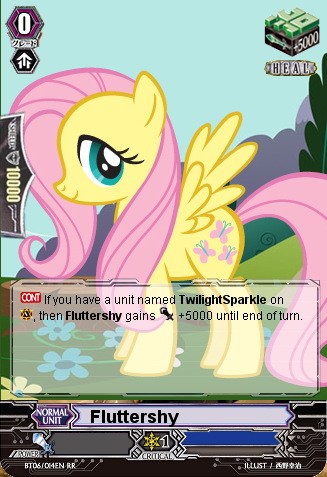
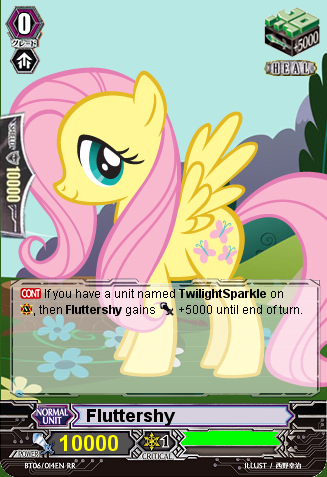
Fixed text fit issues

diff --git a/src/com/tcg/generator/cards/GenericCard.java b/src/com/tcg/generator/cards/GenericCard.java
@@ -7,6 +7,7 @@ package com.tcg.generator.cards;
 import com.tcg.generator.cards.reflect.Card;
 import com.fasterxml.jackson.databind.DeserializationFeature;
 import com.fasterxml.jackson.databind.ObjectMapper;
+import com.tcg.generator.config.ConfigHolder;
 import com.tcg.generator.layouts.CardFont;
 import com.tcg.generator.layouts.CardLayout;
 import com.tcg.generator.layouts.ElementLayout;
@@ -19,6 +20,7 @@ import com.text.formatted.elements.MarkupElement;
 import com.text.formatted.elements.MixedMediaText;
 import com.text.formatted.elements.TextInsert;
 import java.awt.AlphaComposite;
+import java.awt.Color;
 import java.awt.Composite;
 import java.awt.Font;
 import java.awt.FontMetrics;
@@ -99,9 +101,9 @@ public class GenericCard {
     public final GenericCard setArtwork(File artworkFile) {
         try {
             this.artwork = ImageIO.read(artworkFile);
-           System.out.println("Successfully opened: " + artworkFile);
+           System.out.println("Successfully opened: " + artworkFile.getAbsolutePath());
         } catch (IOException ex) {
-            System.out.println("Failed to open:      " + artworkFile);
+            System.out.println("Failed to open:      " + artworkFile.getAbsolutePath());
         }
         return this;
     }
@@ -130,7 +132,6 @@ public class GenericCard {
             draw(new FileOutputStream(outputFile));
         } catch (FileNotFoundException ex) {
             System.out.println("Unable to find file!");
-            return;
         }
     }
     
@@ -218,8 +219,12 @@ public class GenericCard {
                 
                 switch(element.getType()) {
                     case "text-box":
-                        mmtl = splitAndFitMixedText(bi, lines, element);
-                        drawMixedMediaText(bi, mmtl, element);
+                        if (element.hasWordWrap()) {
+                            mmtl = splitAndFitMixedText(bi, lines, element);
+                            drawMixedMediaText(bi, mmtl, element);
+                        } else {
+                            drawText(bi, lines, element);
+                        }
                         break;
                     case "table":
                         drawTableCols(bi, lines, 2, element);
@@ -278,7 +283,7 @@ public class GenericCard {
             
             int width = fm.getStringBounds(line, g).getBounds().width;
             
-            if (width > elementLayout.getWidth() - elementLayout.getMargin() * 2) {
+            if (width > elementLayout.getWidth() - elementLayout.getMarginX() * 2) {
                 lines.add(lastLine);
                 line = lastWord;
             }
@@ -320,7 +325,7 @@ public class GenericCard {
         ArrayList<MixedMediaText> lines = new ArrayList<>();
         
         MarkupElement element;
-        int maxWidth = (elementLayout.getWidth() - elementLayout.getMargin() * 2);
+        int maxWidth = (elementLayout.getWidth() - elementLayout.getMarginX() * 2);
         
         while((element = text.next()) != null) {
             if (element instanceof ImageInsert) {
@@ -339,14 +344,6 @@ public class GenericCard {
             int width = textWidth + iconWidth + formattedTextWidth;
             
             if (width >= maxWidth) {
-                System.out.println("TEXT WIDTH:     " + textWidth);
-                System.out.println("FTEXT WIDTH:    " + formattedTextWidth);
-                System.out.println("ICONS WIDTH:    " + iconWidth);
-                System.out.println("TOTAL WIDTH:    " + width);
-                System.out.println("MAX WIDTH:      " + maxWidth);
-                System.out.println("ELEMENT WIDTH:  " + elementLayout.getWidth());
-                System.out.println("ELEMENT MARGIN: " + elementLayout.getMargin());
-                
                 lastElement = line.popElement();
                 
                 if (line.peekElement() instanceof ImageInsert) {
@@ -403,8 +400,6 @@ public class GenericCard {
         Composite comp = AlphaComposite.getInstance(rule, alpha);
         g.setComposite(comp);
         
-        //g.drawImage(elementLayout.getLayer(), null, 0, 0);
-        
         // Use this when we change the way we store card layers.
         g.drawImage(elementLayout.getLayer(), null, elementLayout.getX(), elementLayout.getY());
     }
@@ -433,10 +428,10 @@ public class GenericCard {
         
         FontMetrics fm = g.getFontMetrics();
         
-        int lineHeight = fm.getHeight();
+        int actualHeight = fm.getAscent() - fm.getDescent();
         
         g.setColor(elementLayout.getCardFont().getColor());
-        g.drawString(text, elementLayout.getX() + elementLayout.getMargin(), elementLayout.getY() + elementLayout.getMargin() + lineHeight);
+        g.drawString(text, elementLayout.getX() + elementLayout.getMarginX(), elementLayout.getY() + elementLayout.getMarginY() + actualHeight);
     }
     
     protected void drawMixedMediaText(BufferedImage target, ArrayList<MixedMediaText> lines, ElementLayout elementLayout) {
@@ -449,7 +444,7 @@ public class GenericCard {
         g.setRenderingHint(RenderingHints.KEY_INTERPOLATION, RenderingHints.VALUE_INTERPOLATION_BICUBIC);
         
         FontMetrics fm = g.getFontMetrics();
-        int actualHeight = fm.getMaxAscent();
+        int actualHeight = fm.getAscent() - fm.getDescent();
         int lineHeight = fm.getHeight();
         int index = 0;
         
@@ -458,15 +453,19 @@ public class GenericCard {
         
             int offset = 0;
             int spaceWidth = 0;
-            int textBottom = (elementLayout.getY() + elementLayout.getMargin() + lineHeight) + (index * lineHeight);
+            int textBottom = (elementLayout.getY() + elementLayout.getMarginY() + actualHeight) + (index * lineHeight);
             
             // Debugging lines
-            /*
-            g.setColor(Color.RED);
-            g.drawLine(elementLayout.getX(), textBottom, elementLayout.getWidth(), textBottom);
-            g.drawLine(elementLayout.getX(), textBottom - actualHeight, elementLayout.getWidth(), textBottom - actualHeight);
+            if (ConfigHolder.getConfig("debug") != null) {
+                g.setColor(Color.GREEN);
+                g.drawLine(elementLayout.getX(), textBottom, elementLayout.getWidth(), textBottom);
+                g.setColor(Color.BLUE);
+                g.drawLine(elementLayout.getX(), textBottom - fm.getAscent(), elementLayout.getWidth(), textBottom - fm.getAscent());
+                g.setColor(Color.RED);
+                g.drawLine(elementLayout.getX(), textBottom - (fm.getAscent() - fm.getDescent()), elementLayout.getWidth(), textBottom - (fm.getAscent() - fm.getDescent()));
+            }
+            
             g.setColor(elementLayout.getCardFont().getColor());
-            */
             
             while ((me = mmt.next()) != null) {
                 if (me instanceof TextInsert) {
@@ -474,7 +473,7 @@ public class GenericCard {
                     fm = g.getFontMetrics();
                     spaceWidth = fm.getStringBounds(" ", g).getBounds().width;
                     
-                    g.drawString(me.getText(), elementLayout.getX() + elementLayout.getMargin() + offset, textBottom);
+                    g.drawString(me.getText(), elementLayout.getX() + elementLayout.getMarginX() + offset, textBottom);
                     offset += fm.getStringBounds(me.getText(), g).getBounds().width + spaceWidth;
                 } else if (me instanceof ImageInsert) {
                     Resource r = cardLayout.getResource(me.getText());
@@ -482,7 +481,7 @@ public class GenericCard {
                     Integer diff = Math.abs(r.getHeight() - actualHeight);
                     Integer correction = (int)Math.round((double)diff/2.0);
                     Integer imageDelta = larger - correction;
-                    g.drawImage(r.getImage(), null, elementLayout.getX() + elementLayout.getMargin() + offset, (textBottom - imageDelta));
+                    g.drawImage(r.getImage(), null, elementLayout.getX() + elementLayout.getMarginX() + offset, (textBottom - imageDelta));
                     offset += r.getWidth() + spaceWidth;
                 } else if (me instanceof BoldTextInsert) {
                     CardFont cf = elementLayout.getCardFont();
@@ -492,7 +491,7 @@ public class GenericCard {
                     fm = g.getFontMetrics();
                     spaceWidth = 0;
                     
-                    g.drawString(me.getText(), elementLayout.getX() + elementLayout.getMargin() + offset, (elementLayout.getY() + elementLayout.getMargin() + lineHeight) + (index * lineHeight));
+                    g.drawString(me.getText(), elementLayout.getX() + elementLayout.getMarginX() + offset, textBottom);
                     offset += fm.getStringBounds(me.getText(), g).getBounds().width + spaceWidth;
                 } else if (me instanceof ItalicTextInsert) {
                     CardFont cf = elementLayout.getCardFont();
@@ -502,7 +501,7 @@ public class GenericCard {
                     fm = g.getFontMetrics();
                     spaceWidth = 0;
                     
-                    g.drawString(me.getText(), elementLayout.getX() + elementLayout.getMargin() + offset, (elementLayout.getY() + elementLayout.getMargin() + lineHeight) + (index * lineHeight));
+                    g.drawString(me.getText(), elementLayout.getX() + elementLayout.getMarginX() + offset, textBottom);
                     offset += fm.getStringBounds(me.getText(), g).getBounds().width + spaceWidth;
                 }
             }
@@ -523,9 +522,10 @@ public class GenericCard {
         
         int index = 0;
         for (String line: lines) {
+            int actualHeight = fm.getAscent() - fm.getDescent();
             int lineHeight = fm.getHeight();
 
-            g.drawString(line, elementLayout.getX() + elementLayout.getMargin(), (elementLayout.getY() + elementLayout.getMargin() + lineHeight) + (index * lineHeight));
+            g.drawString(line, elementLayout.getX() + elementLayout.getMarginX(), (elementLayout.getY() + elementLayout.getMarginY() + actualHeight) + (index * lineHeight));
             
             index++;
         }
@@ -558,7 +558,7 @@ public class GenericCard {
                 
                 int lineHeight = fm.getHeight();
 
-                g.drawString(cell, (elementLayout.getX() + elementLayout.getMargin()) + ((maxWidth + elementLayout.getMargin()) * col), (elementLayout.getY() + elementLayout.getMargin() + lineHeight) + (row * lineHeight));
+                g.drawString(cell, (elementLayout.getX() + elementLayout.getMarginX()) + ((maxWidth + elementLayout.getMarginX()) * col), (elementLayout.getY() + elementLayout.getMarginY() + lineHeight) + (row * lineHeight));
             }
         }
     }

diff --git a/src/com/tcg/generator/layouts/ElementLayout.java b/src/com/tcg/generator/layouts/ElementLayout.java
@@ -20,7 +20,8 @@ public class ElementLayout {
     private String inherits;
     private Integer x, y;
     private Integer width, height;
-    private Integer margin;
+    private Integer marginX, marginY;
+    private Boolean wordWrap;
     private CardFont font;
     private Double transparency;
     private CardLayer layer;
@@ -37,7 +38,9 @@ public class ElementLayout {
             @JsonProperty("y")            Integer y,
             @JsonProperty("width")        Integer width,
             @JsonProperty("height")       Integer height,
-            @JsonProperty("margin")       Integer margin,
+            @JsonProperty("margin-x")     Integer marginX,
+            @JsonProperty("margin-y")     Integer marginY,
+            @JsonProperty("word-wrap")    Boolean wordWrap,
             @JsonProperty("columns")      Integer columns,
             @JsonProperty("transparency") Double transparency,
             @JsonProperty("font")         CardFont font,
@@ -57,13 +60,19 @@ public class ElementLayout {
         this.y = y;
         this.width = width;
         this.height = height;
-        this.margin = margin;
+        this.marginX = marginX;
+        this.marginY = marginY;
+        this.wordWrap = wordWrap;
         this.columns = columns;
         this.font = font;
         this.transparency = transparency;
         this.mappings = mappings;
         this.layer = layer;
 
+        if (wordWrap == null) {
+            this.wordWrap = true;
+        }
+        
         if (layer != null) {
             if (this.height == null) {
                 this.height = this.layer.getHeight();
@@ -101,8 +110,12 @@ public class ElementLayout {
         return height;
     }
     
-    public Integer getMargin() {
-        return margin;
+    public Integer getMarginX() {
+        return marginX;
+    }
+    
+    public Integer getMarginY() {
+        return marginY;
     }
     
     public Integer getColumns() {
@@ -119,6 +132,10 @@ public class ElementLayout {
     
     public Condition getCondition() {
         return condition;
+    }
+    
+    public Boolean hasWordWrap() {
+        return wordWrap;
     }
     
     public boolean shouldDraw(LinkedHashMap<String, Object> object) {
@@ -182,7 +199,8 @@ public class ElementLayout {
                 "\ty:            " + y + "\n" +
                 "\twidth:        " + width + "\n" +
                 "\theight:       " + height +  "\n" +
-                "\tmargin:       " + margin + "\n" +
+                "\tmargin-x:     " + marginX + "\n" +
+                "\tmargin-y:     " + marginY + "\n" +
                 "\tcolumns:      " + columns + "\n" +
                 "\ttransparency: " + transparency + "\n" +
                 "\tfont:         " + "\n" + font;

diff --git a/src/com/tcg/generator/layouts/CardLayer.java b/src/com/tcg/generator/layouts/CardLayer.java
@@ -45,8 +45,10 @@ public class CardLayer {
             try {
                 this.image = ImageIO.read(new File(ConfigHolder.getConfig("rootDirectory") + file));
             } catch (IOException ex) {
-                System.out.println("Unable to open layer!");
+                System.out.println("Unable to open: " + ConfigHolder.getConfig("rootDirectory") + file);
+                return;
             }
+            System.out.println("Successfully opened: " + ConfigHolder.getConfig("rootDirectory") + file);
         } else if (r != null && g != null && b != null) {
             this.width = width;
             this.height = height;

diff --git a/src/com/tcg/generator/layouts/CardFont.java b/src/com/tcg/generator/layouts/CardFont.java
@@ -36,6 +36,18 @@ public class CardFont {
             case "white":
                 this.color = Color.white;
                 break;
+            case "red":
+                this.color = Color.red;
+                break;
+            case "green":
+                this.color = Color.yellow;
+                break;
+            case "blue":
+                this.color = Color.blue;
+                break;
+            case "yellow":
+                this.color = Color.yellow;
+                break;
         }
     }
     

diff --git a/src/com/text/formatted/elements/MixedMediaText.java b/src/com/text/formatted/elements/MixedMediaText.java
@@ -82,11 +82,17 @@ public class MixedMediaText {
     }
     
     public MarkupElement popElement() {
+        if (elements.size() == 0) {
+            return null;
+        }
         return elements.remove(elements.size() - 1);
     }
     
     public MarkupElement peekElement() {
-        return elements.get(elements.size() -1);
+        if (elements.size() == 0) {
+            return null;
+        }
+        return elements.get(elements.size() - 1);
     }
     
     public String toString() {

diff --git a/src/com/tcg/generator/tests/Test.java b/src/com/tcg/generator/tests/Test.java
@@ -24,6 +24,8 @@ public class Test {
                     "\"grade\": 0," +
                     "\"trigger\": \"heal\"," +
                     "\"shield\": 10000," +
+                    "\"power\": 10000," +
+                    "\"clan\": \"green\"," +
                     "\"effects\": [" +
                         "\"[icon:cont] If you have a unit named [bold:Twilight Sparkle] on [icon:vanguard], then [bold:Fluttershy] gains [icon:sword]+5000 until end of turn.\"" +
                     "]" +
